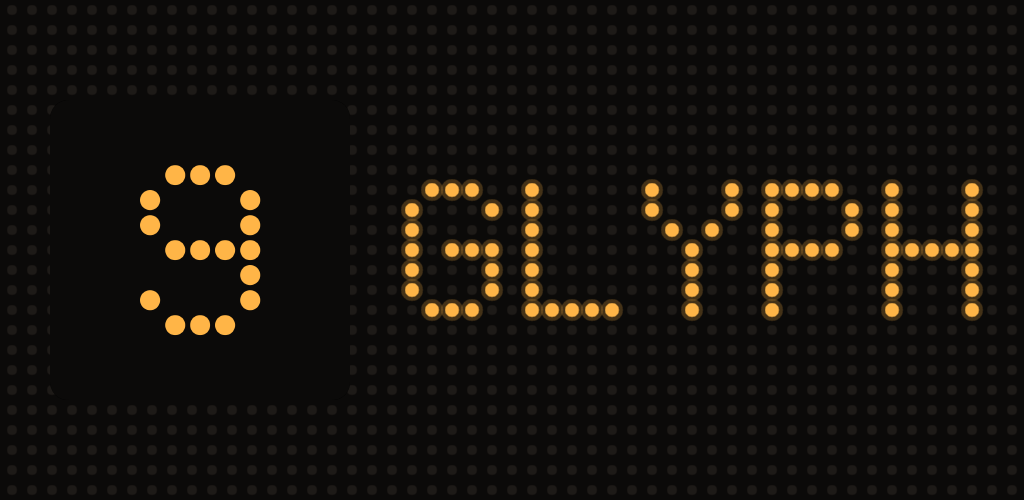
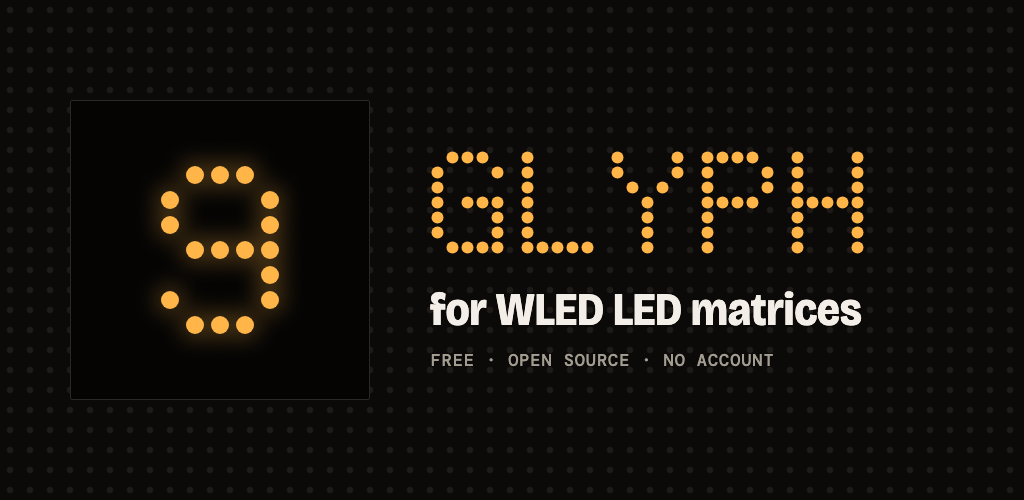
Say "for WLED" in the feature graphic and drop leftover collection copy
The store's feature graphic showed only the wordmark; it now says what Glyph
is for. The README and store description listed Flags and Patterns groups,
and old What's new entries described the imported collection, all from
before it was removed in 1.4.11.

diff --git a/lib/app/whats_new.dart b/lib/app/whats_new.dart
@@ -29,19 +29,14 @@ const whatsNewNotes = <String, List<String>>{
     'Your favourites, Rotations and Saved looks carry over to tidier animation names.',
   ],
   '1.4.7': [
-    'All 12,361 imported animations are included in the app. Browse and play them offline from the start.',
     'Animations load locally without waiting for thumbnail downloads.',
-    'Imported animations live in the regular subject groups.',
-    'Find flags in Flags, grids and stripes in Patterns, and spirals and tunnels in Hypnotic.',
   ],
   '1.4.6': [
-    'Imported animations have descriptive names, search tags and proper browsing groups.',
     'All leads Display, with the whole library and your creations.',
     'Search finds objects and offers typo corrections. Your Saved looks keep working after renaming.',
     'Start a drawing from a picture or GIF, with crop and colour controls.',
   ],
   '1.4.5': [
-    '12,361 more animations. Search them by name, size and colour.',
     'Animations download as you browse or play them, then stay cached for offline use.',
     'Your current look keeps playing while the next one loads. Send preserves long animation holds.',
   ],

diff --git a/docs/launch/OUTREACH.md b/docs/launch/OUTREACH.md
@@ -84,7 +84,7 @@ the launch results in hand.
 | **Clip B, 15 s:** "Which corner lit up?" wiring test → upright arrow | Maintainer films | Lead for r/WLED and the WLED forum |
 | **Clip C, 12 s:** album art + progress bar on the panel | Maintainer films | Lead for Shorts/Reels and r/androidapps; creator-owned cover |
 | Landing page at `spandan-kumar.github.io/glyph` | Agent | `website/` exists; must ship alongside the catalog files on Pages |
-| Android screenshots, feature graphic that says "for WLED" | Agent + phone | Current ones show iPhone chrome and old counts |
+| Android screenshots, feature graphic that says "for WLED" | Agent + phone | Feature graphic done 22 Oct. Screenshots still show iPhone chrome: retake on the Pixel over adb |
 | Fact sheet (counts, requirements, tested hardware) | Agent | Single source for every post |
 | Channel copy | Agent | `posts.md` |
 | Creator kit refresh | Agent | `creator-kit.md` |

diff --git a/README.md b/README.md
@@ -76,8 +76,8 @@ for a surprise, and tap **Send** to put an animation on the device. Tweak
 colours and motion with a palette reel and rotary knobs; the whole app glows
 with whatever is on your matrix.
 
-- **1,236 animations** in subject groups (Animals, Nature, Holidays, Gaming,
-  Flags, Patterns and more): 62 procedural effects (plasma, fire, aurora,
+- **1,236 animations** in 22 subject groups (Holidays, Animals, Nature,
+  Space, Gaming and more): 62 procedural effects (plasma, fire, aurora,
   reaction–diffusion, falling sand…), 356 original and CC0 pixel-art sprites,
   **Famous Classics** — public-domain characters and paintings such as
   Pinocchio, Alice, Dracula and The Starry Night.
